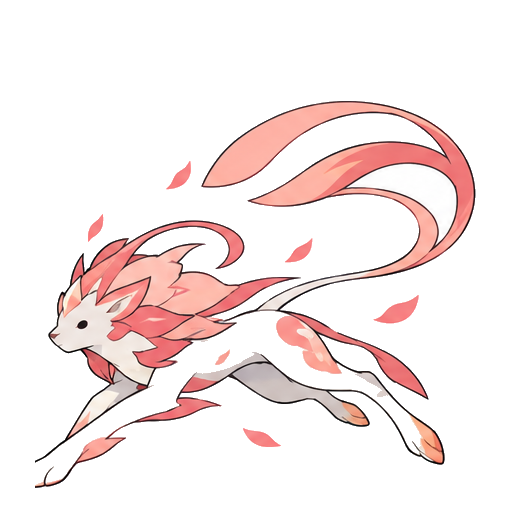
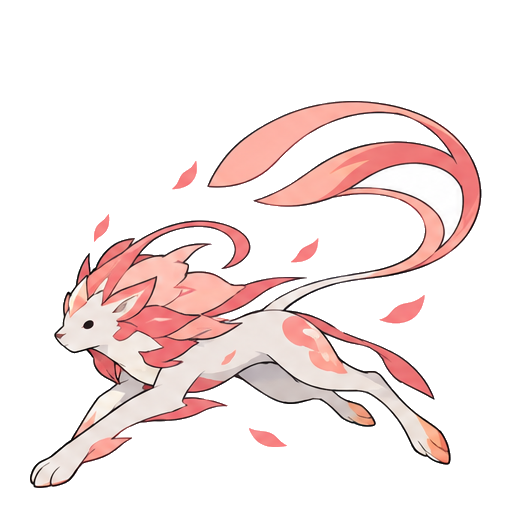
素材：風シカと風ライオンの透過と欠けを修正

diff --git a/frontend/tool/extract_character_assets.py b/frontend/tool/extract_character_assets.py
@@ -4,7 +4,7 @@ Run with --source <provided character directory>. Never changes source files.
 from pathlib import Path
 import argparse, json
 import numpy as np
-from PIL import Image, ImageDraw
+from PIL import Image, ImageDraw, ImageFilter
 from collections import deque
 
 CATEGORIES = ['kindness','environment','gratitude','courage','cooperation','honesty','self_care']
@@ -19,12 +19,23 @@ SHEETS = {
 }
 FIRST = ('exec-5852de66-0be5-4966-9f00-2957be1e76b4.png', [(16,196,367,488),(387,157,741,487),(770,106,1097,488),(1127,141,1536,488),(8,543,387,919),(386,606,817,919),(812,576,1166,919),(1171,558,1536,919)])
 
+# User-selected replacements only; all other forms retain the original extraction.
+REVIEWED_BOUNDS = {
+ 'stage2_environment_gratitude': (750,85,1165,575),
+ 'stage2_courage_gratitude': (750,136,1237,550),
+}
+
 def cut(source, rect, image_id):
     rgb = np.asarray(source.crop(rect).convert('RGB'))
     # Flood only pale near-neutral background connected to the crop edges.
     # Enclosed white/cream markings remain opaque.
     lo = rgb.min(axis=2).astype(float); hi = rgb.max(axis=2).astype(float)
     pale = (lo > 205) & ((hi - lo) < 32)
+    if image_id in REVIEWED_BOUNDS:
+        # Bridge one-pixel outline breaks so pale limbs do not join the background.
+        barrier = Image.fromarray((~pale).astype(np.uint8)*255)
+        closed = barrier.filter(ImageFilter.MaxFilter(3)).filter(ImageFilter.MinFilter(3))
+        pale = np.asarray(closed) == 0
     flood=Image.fromarray(np.pad(pale.astype(np.uint8)*255,1,constant_values=255)).copy()
     ImageDraw.floodfill(flood,(0,0),128)
     bg=np.asarray(flood)[1:-1,1:-1]==128
@@ -65,10 +76,12 @@ def cut(source, rect, image_id):
     return canvas
 
 def main():
-    ap=argparse.ArgumentParser();ap.add_argument('--source',type=Path,required=True);args=ap.parse_args()
-    root=Path(__file__).resolve().parents[1]; out=root/'assets/characters/evolution';out.mkdir(parents=True,exist_ok=True)
+    ap=argparse.ArgumentParser();ap.add_argument('--source',type=Path,required=True)
+    ap.add_argument('--output',type=Path);args=ap.parse_args()
+    root=Path(__file__).resolve().parents[1]; out=args.output or root/'assets/characters/evolution';out.mkdir(parents=True,exist_ok=True)
     manifest=[]
     def emit(image_id,file,rect):
+        rect=REVIEWED_BOUNDS.get(image_id,rect)
         img=cut(Image.open(args.source/file),rect,image_id);img.save(out/(image_id+'.png'),optimize=True)
         manifest.append({'imageId':image_id,'source':file,'crop':rect})
     file,rects=FIRST

diff --git a/frontend/assets/README.md b/frontend/assets/README.md
@@ -17,6 +17,8 @@
 
 対応は光＝思いやり（クラゲ）、草＝環境保全（シカ）、風＝感謝（ヒツジ）、炎＝勇気（ライオン）、水＝協力（クジラ）、鉱石＝誠実（カメ）、月＝セルフケア（ネコ）。第二進化では第一属性が種族、第二属性が最終的な見た目の属性です。
 
+透過の再確認後、ユーザー選択により風シカ（ソヨノカ）と風ライオン（ソヨレオ）のみ新しい切り抜きを採用。羽・前脚の先まで切り抜き範囲を広げ、輪郭の小さな隙間から体まで透明になることを防いでいます。他55体は前版のPNGをバイト単位で維持。比較画像は `docs/transparency/wind-before-after.png`。再現用スクリプトの `REVIEWED_BOUNDS` はこの2体だけに適用します。
+
 ## 進化の効果音
 
 `audio/evolution_charge.wav`（1.8秒）と `audio/evolution_reveal.wav`（2.3秒）は、`tool/create_evolution_sounds.py` で合成したオリジナルのチャイムです。外部の録音・ゲーム音源は使用していません。アプリ内の再生音量は45%、ON/OFFは端末へ保存します。
